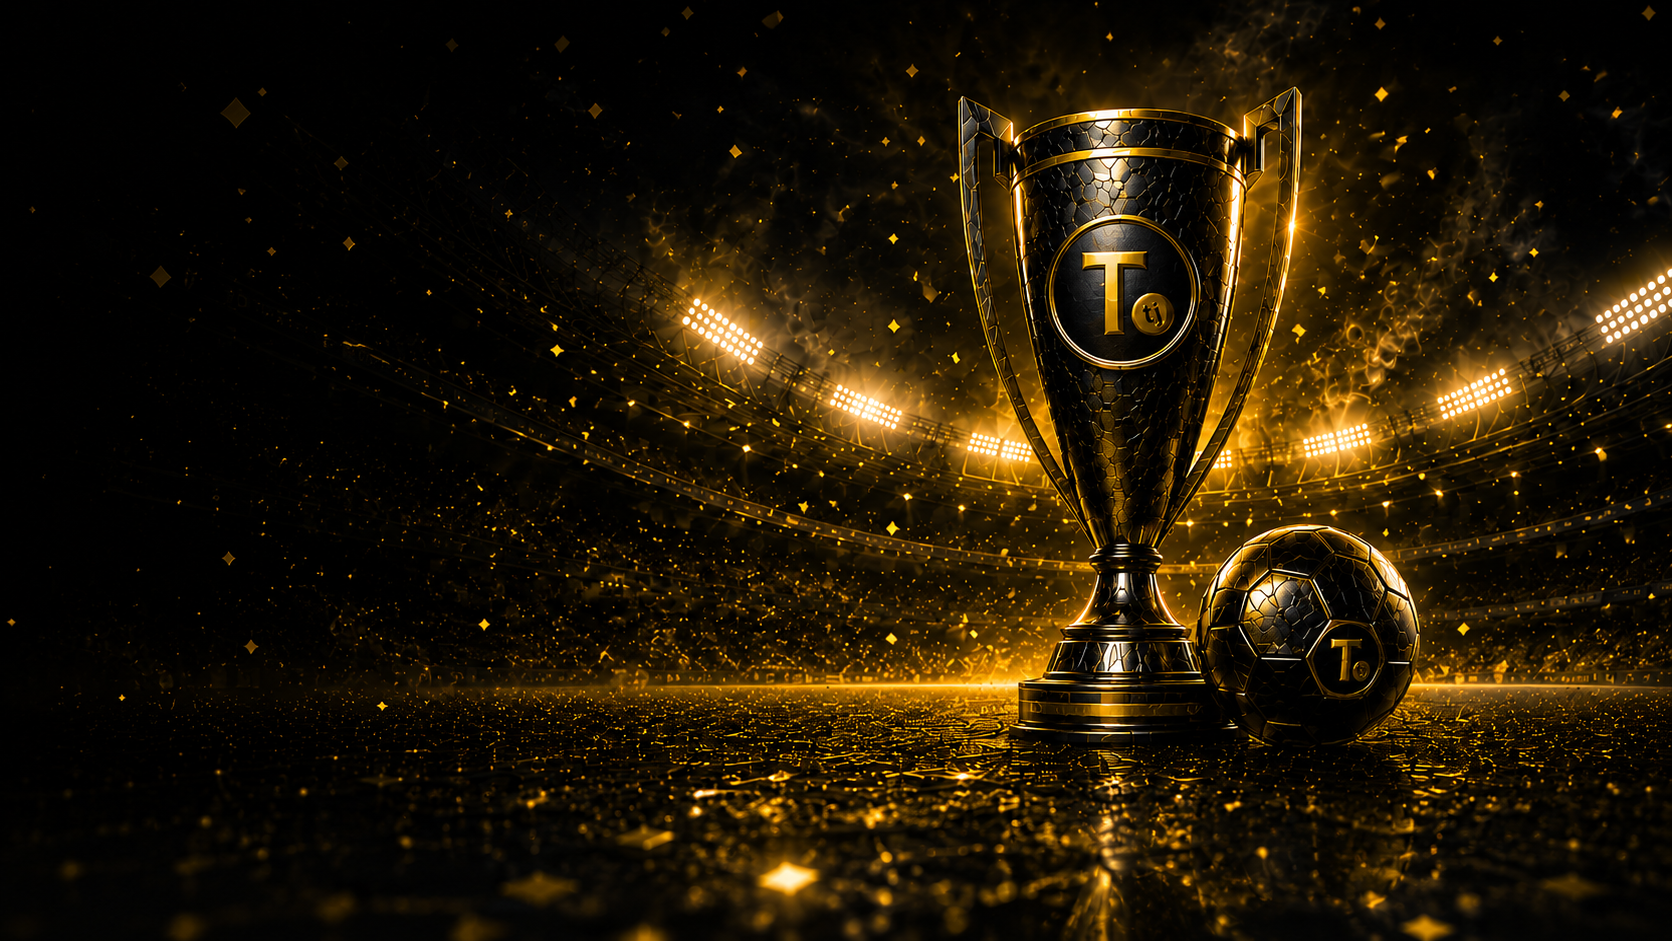
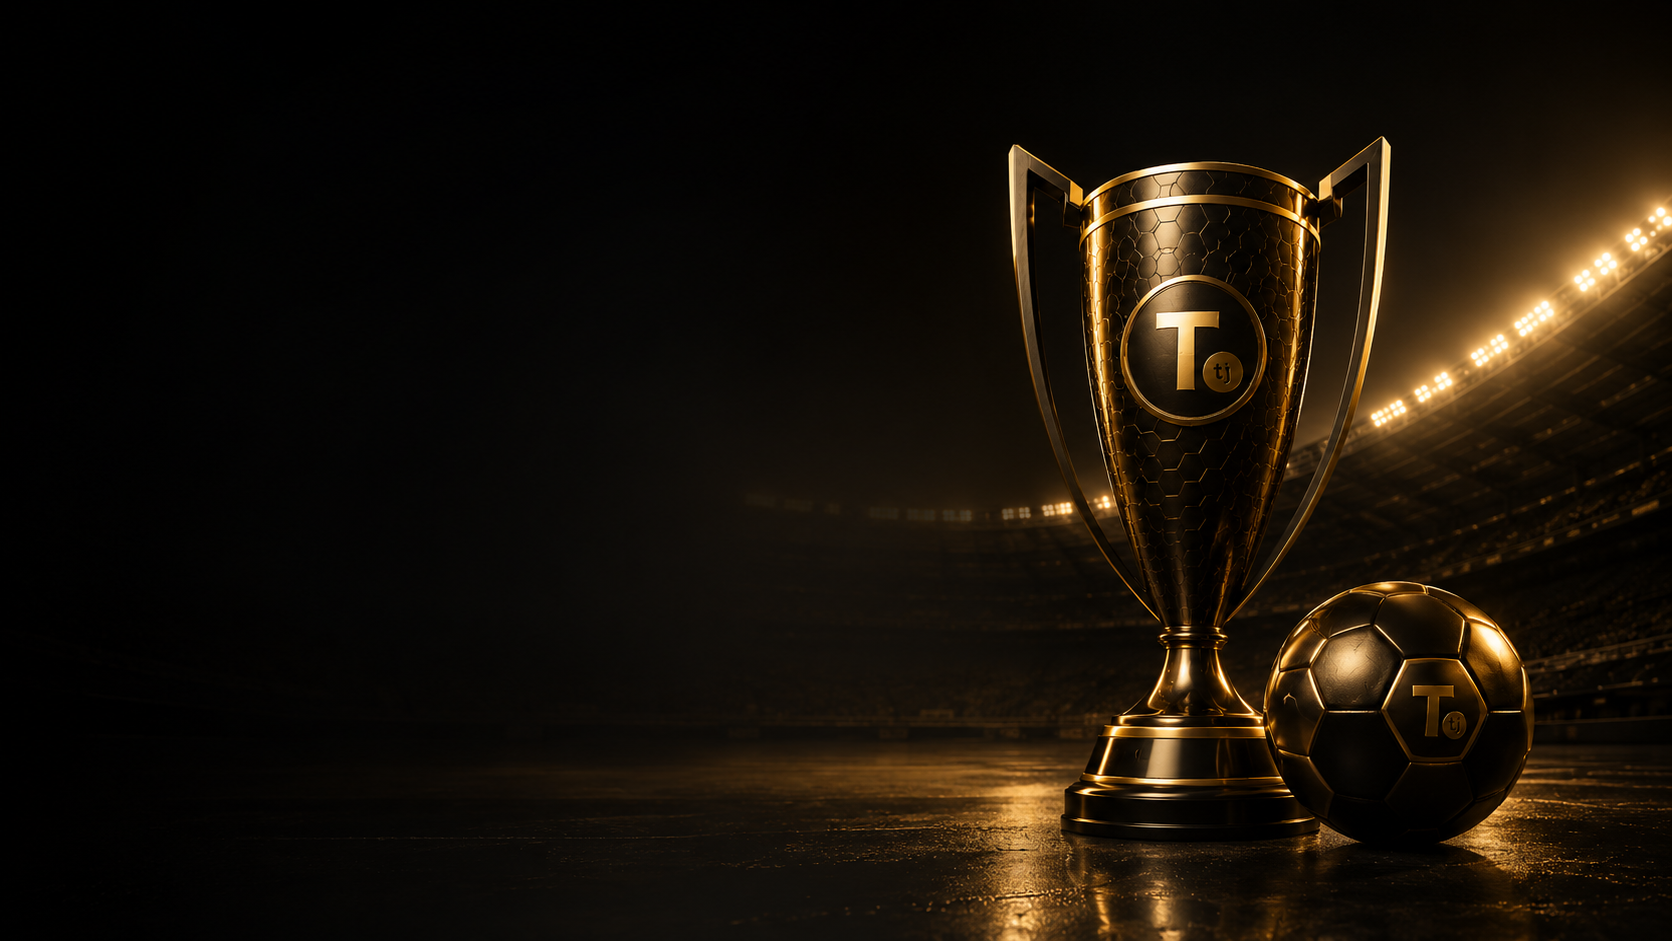
Update landing page design and assets

diff --git a/app/globals.css b/app/globals.css
@@ -198,18 +198,6 @@ h1 strong {
   box-shadow: inset 0 0 24px rgba(255, 187, 0, .04);
 }
 
-.places-icon {
-  display: grid;
-  place-items: center;
-  width: clamp(58px, 4.2vw, 67px);
-  aspect-ratio: 1;
-  border: 1.5px solid var(--yellow);
-  border-radius: 50%;
-  color: var(--yellow);
-  font-family: Georgia, serif;
-  font-size: clamp(38px, 3.1vw, 50px);
-  line-height: 1;
-}
 
 .places-card strong {
   display: block;
@@ -474,9 +462,6 @@ footer {
     gap: 18px;
   }
 
-  .places-icon {
-    width: 68px;
-  }
 
   .places-card strong {
     margin: 0;

diff --git a/app/page.tsx b/app/page.tsx
@@ -33,7 +33,6 @@ export default function Home() {
               </article>
 
               <article className="places-card">
-                <span className="places-icon" aria-hidden="true">☆</span>
                 <strong>60</strong>
                 <span>призовых<br />мест</span>
               </article>
